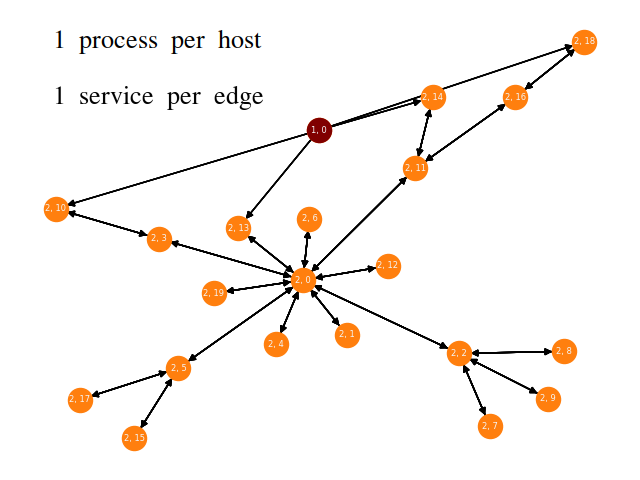
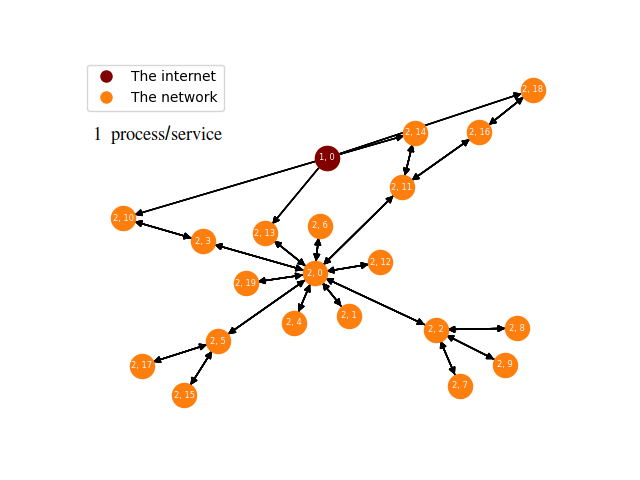
Legend to previews of the networks. Delete some old code in globals.

diff --git a/project/network.py b/project/network.py
@@ -859,13 +859,16 @@ def draw_network(network):
     pos = nx.spring_layout(G, seed=3113794652)  # positions for all nodes
 
     plt.figure()
-    plt.title(str(glob.network_selection) + ", " + str(len(glob.attackers)) + " attacker(s), time: " + str(glob.MAX_RUNTIME))
+    # plt.title(str(glob.network_selection) + ", " + str(len(glob.attackers)) + " attacker(s), time: " + str(glob.MAX_RUNTIME))
 
     legend_elements = [
-        Line2D([0], [0], marker='o', color='w', label='Normal',markerfacecolor='tab:orange', markersize=10),
-        Line2D([0], [0], marker='o', color='w', label='Hardened',markerfacecolor='tab:blue', markersize=10),
-        Line2D([0], [0], marker='o', color='w', label='User comp',markerfacecolor='tab:red', markersize=10),
-        Line2D([0], [0], marker='o', color='w', label='Admin comp',markerfacecolor='maroon', markersize=10),
+        # Line2D([0], [0], marker='o', color='w', label='Normal',markerfacecolor='tab:orange', markersize=10),
+        # Line2D([0], [0], marker='o', color='w', label='Hardened',markerfacecolor='tab:blue', markersize=10),
+        # Line2D([0], [0], marker='o', color='w', label='User comp',markerfacecolor='tab:red', markersize=10),
+        # Line2D([0], [0], marker='o', color='w', label='Admin comp',markerfacecolor='maroon', markersize=10),
+        Line2D([0], [0], marker='o', color='w', label='The internet',markerfacecolor='maroon', markersize=10),
+        Line2D([0], [0], marker='o', color='w', label='The network',markerfacecolor='tab:orange', markersize=10),
+
     ]
     plt.legend(handles=legend_elements, loc='best')
 

diff --git a/project/globals.py b/project/globals.py
@@ -7,7 +7,6 @@ from actions_def import Harden_host, Harden_edge
 from actions_att import Exploit, PrivilegeEscalation
 
 
-
 MAX_RUNTIME = 60
 NUM_SIMS = 1
 OUT_FOLDERNAME = "output"
@@ -60,39 +59,11 @@ logger = setup_logger('logger', 'log.txt')
 # The score logger
 score_logger = setup_logger('score_logger', 'score_log.txt')
 
-# logging.basicConfig(filename='log.txt', filemode='w',
-#                     format='%(asctime)s %(message)s', level=logging.INFO)
-# logger = logging.getLogger(__name__)
-
 
 class AccessLevel(enum.IntEnum):
     NONE = 0
     USER = 1
     ROOT = 2
-
-    def __str__(self):
-        return self.name
-
-    def __repr__(self):
-        return self.name
-
-
-class AttackStrat(enum.Enum):
-    RST = "Random Strategy"
-    ZDE = "Zero-day exploit"
-    APT = "Advanced Persistent Threats"
-
-    def __str__(self):
-        return self.name
-
-    def __repr__(self):
-        return self.name
-
-
-class DefenseStrat(enum.IntEnum):
-    RAND = 0
-    AGRO = 1
-    DEFF = 2
 
     def __str__(self):
         return self.name

diff --git a/project/defender.py b/project/defender.py
@@ -56,11 +56,11 @@ class Defender:
         self.harden_host_allowed = glob.harden_host_allowed.get()
         self.harden_edge_allowed = glob.harden_edge_allowed.get()
 
-        self.scan_allowed = 0               # Not used, not connected to GUI
-        self.update_firewall_allowed = 0    # Not used, not connected to GUI
-        self.update_host_allowed = 0        # Not used, not connected to GUI
-        self.failed_att_hosts = []          # Not used
-        self.failed_att_edges = []          # Not used
+        self.scan_allowed = glob.scan_host_allowed.get()                    # Not used
+        self.update_firewall_allowed = glob.update_firewall_allowed.get()   # Not used
+        self.update_host_allowed = glob.update_host_allowed.get()           # Not used
+        self.failed_att_hosts = []                                          # Not used
+        self.failed_att_edges = []                                          # Not used
 
 
     def get_scan_cost(self):
